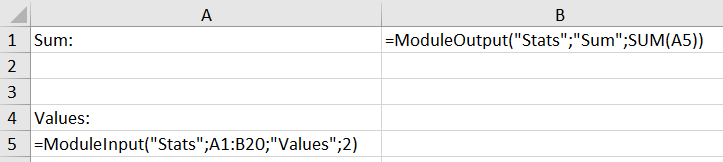
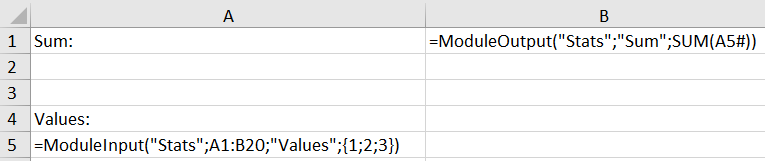
Update

Changed region(s): [[0.0, 0.528, 1.0, 0.9938], [0.0, 0.0621, 1.0, 0.3416], [0.0, 0.3727, 1.0, 0.4969]]

diff --git a/README.md b/README.md
@@ -135,16 +135,40 @@ Needless to say, the order of input names and corresponding input values has to 
 
 SDF add-in supports spill ranges and array formulas. Module inputs and outputs can be arrays, not just single values. As a simple example, let's create a module that calculates the sum of arbitrary number of input values.
 
-In a new worksheet, we'll arrange values that have to be summed up in a column, starting from cell A5 and down. This column will represent the module input, so we declare it with the formula like:
+In a new worksheet, we'll arrange values that have to be summed up in a column, starting from cell A5 and down. This column will represent the module input, so we declare it with the formula in cell A5 like:
 
-`=ModuleInput("Stats", A1:B20, "Values", 2)`
+`=ModuleInput("Stats", A1:B20, "Values", {1, 2, 3})`
 
-"Stats" is our module, A1:B20 is the range of cells with the module structure, "Values" is the name of this input, and number 2 is initial number to be summed up.
+"Stats" is our module, A1:B20 is the range of cells with the module structure, "Values" is the name of this input, and array {1, 2, 3} is the initial array to be summed up. After entering the formula, the array {1, 2, 3} should be spilled in cells A5..A7.
 
-Let's put the sum of input values in cell B1. Since this is also the output from our model, we can declare it with this formula:
+Let's put the sum of input values in cell B1. Since this is also the output from our model, we can declare it with a formula like:
 
-`=ModuleOutput("Stats", "Sum", SUM(A5))`
+`=ModuleOutput("Stats", "Sum", SUM(A5#))`
 
-Our module structure is not complicated at all:
+"Sum" is the name of the output, and return value will be the sum of spill range which begins by the A5 cell. Our module structure is not complicated at all:
 
 ![Projectile model](/images/projectile9.png)
+
+The module "Stats" is prepared, and we can use it by some other spreadsheet. In the worksheet in the picture below, we have entered input values in cells A3..A11. We call the module with formula in cell B2:
+
+`=ModuleUse("Stats", "Sum", "Values", A3:A11)`
+
+After clicking on *Calculate SDFs button*, the module returns the sum. It behaves as expected - it updates the sum correctly - if we change the size of the range of input values.
+
+Outputs can be spilled ranges as well. let's suppose we would like to have another output from this module - for each input value, the module should return a difference between this value and the average of all input values. 
+
+Firstly, we need a formula to calculate average of all input values:
+
+`=AVERAGE(A5#)`
+
+We can put this formula in cell B2. Secondly, for each of the input values we need to calculate the difference. Since the input values are nicely ordered in spill range, we can simply write
+
+`=A5#-B2`
+
+in cell B5. B2 keeps the average of all the values, and A5 is the first value from our spill range. To safe the space, we can directly expose this cell as an output by wrapping the above formula with ModuleOutput() function like:
+
+`=ModuleOutput("Stats", "Differences", A5#-B2)`
+
+Finally, our module looks like this:
+
+![Projectile model](/images/projectile10.png)
